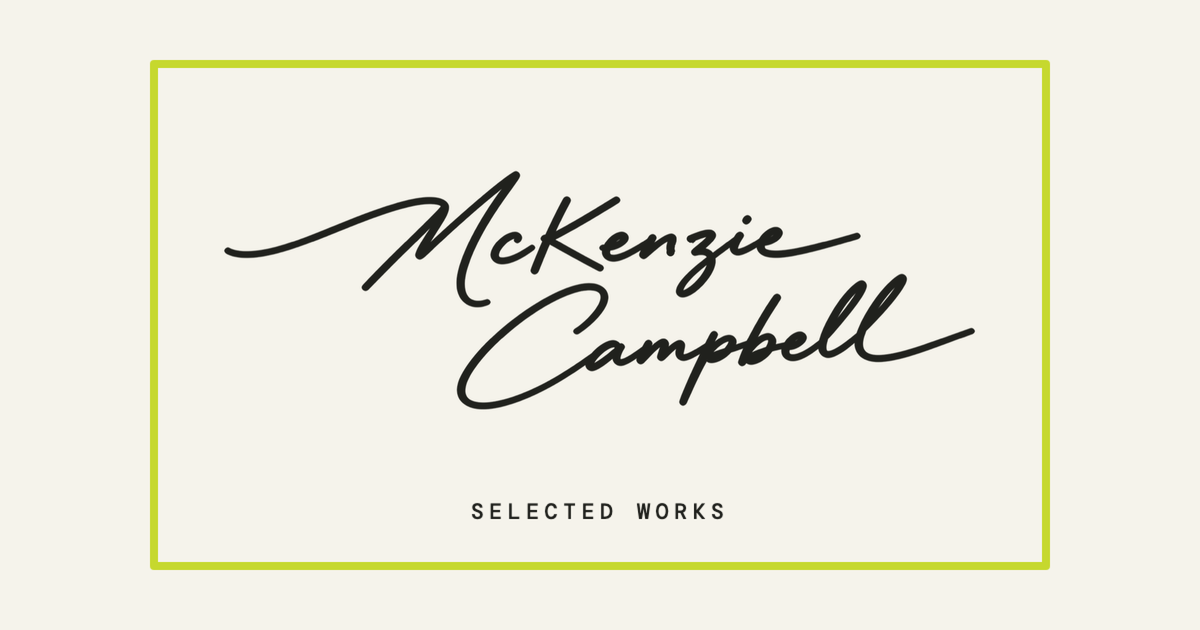
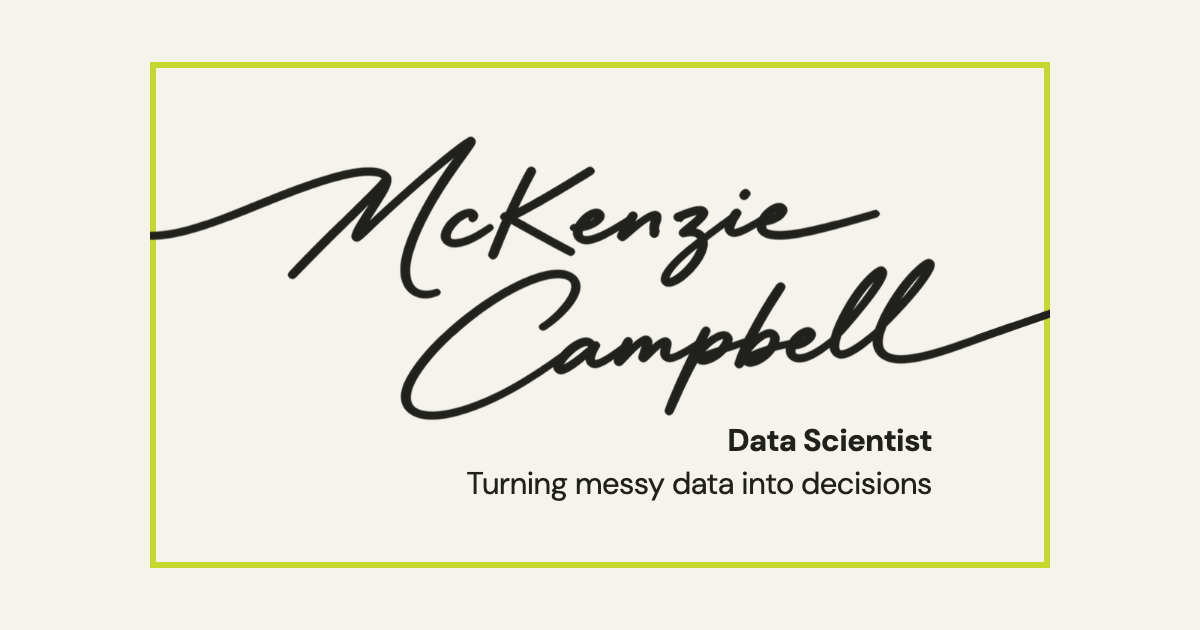
Share image: new signature (extended tail) and the site tagline instead of Selected Works

diff --git a/index.html b/index.html
@@ -13,7 +13,7 @@
 <meta property="og:image" content="https://mckenziekay.github.io/images/share.png">
 <meta property="og:image:width" content="1200">
 <meta property="og:image:height" content="630">
-<meta property="og:image:alt" content="McKenzie Campbell's signature framed in chartreuse, with the words Selected Works">
+<meta property="og:image:alt" content="McKenzie Campbell's signature framed in chartreuse, with the tagline Data Scientist, Turning messy data into decisions">
 <meta name="twitter:card" content="summary_large_image">
 <link rel="icon" type="image/png" href="images/favicon.png">
 <link rel="apple-touch-icon" href="images/apple-touch-icon.png">
